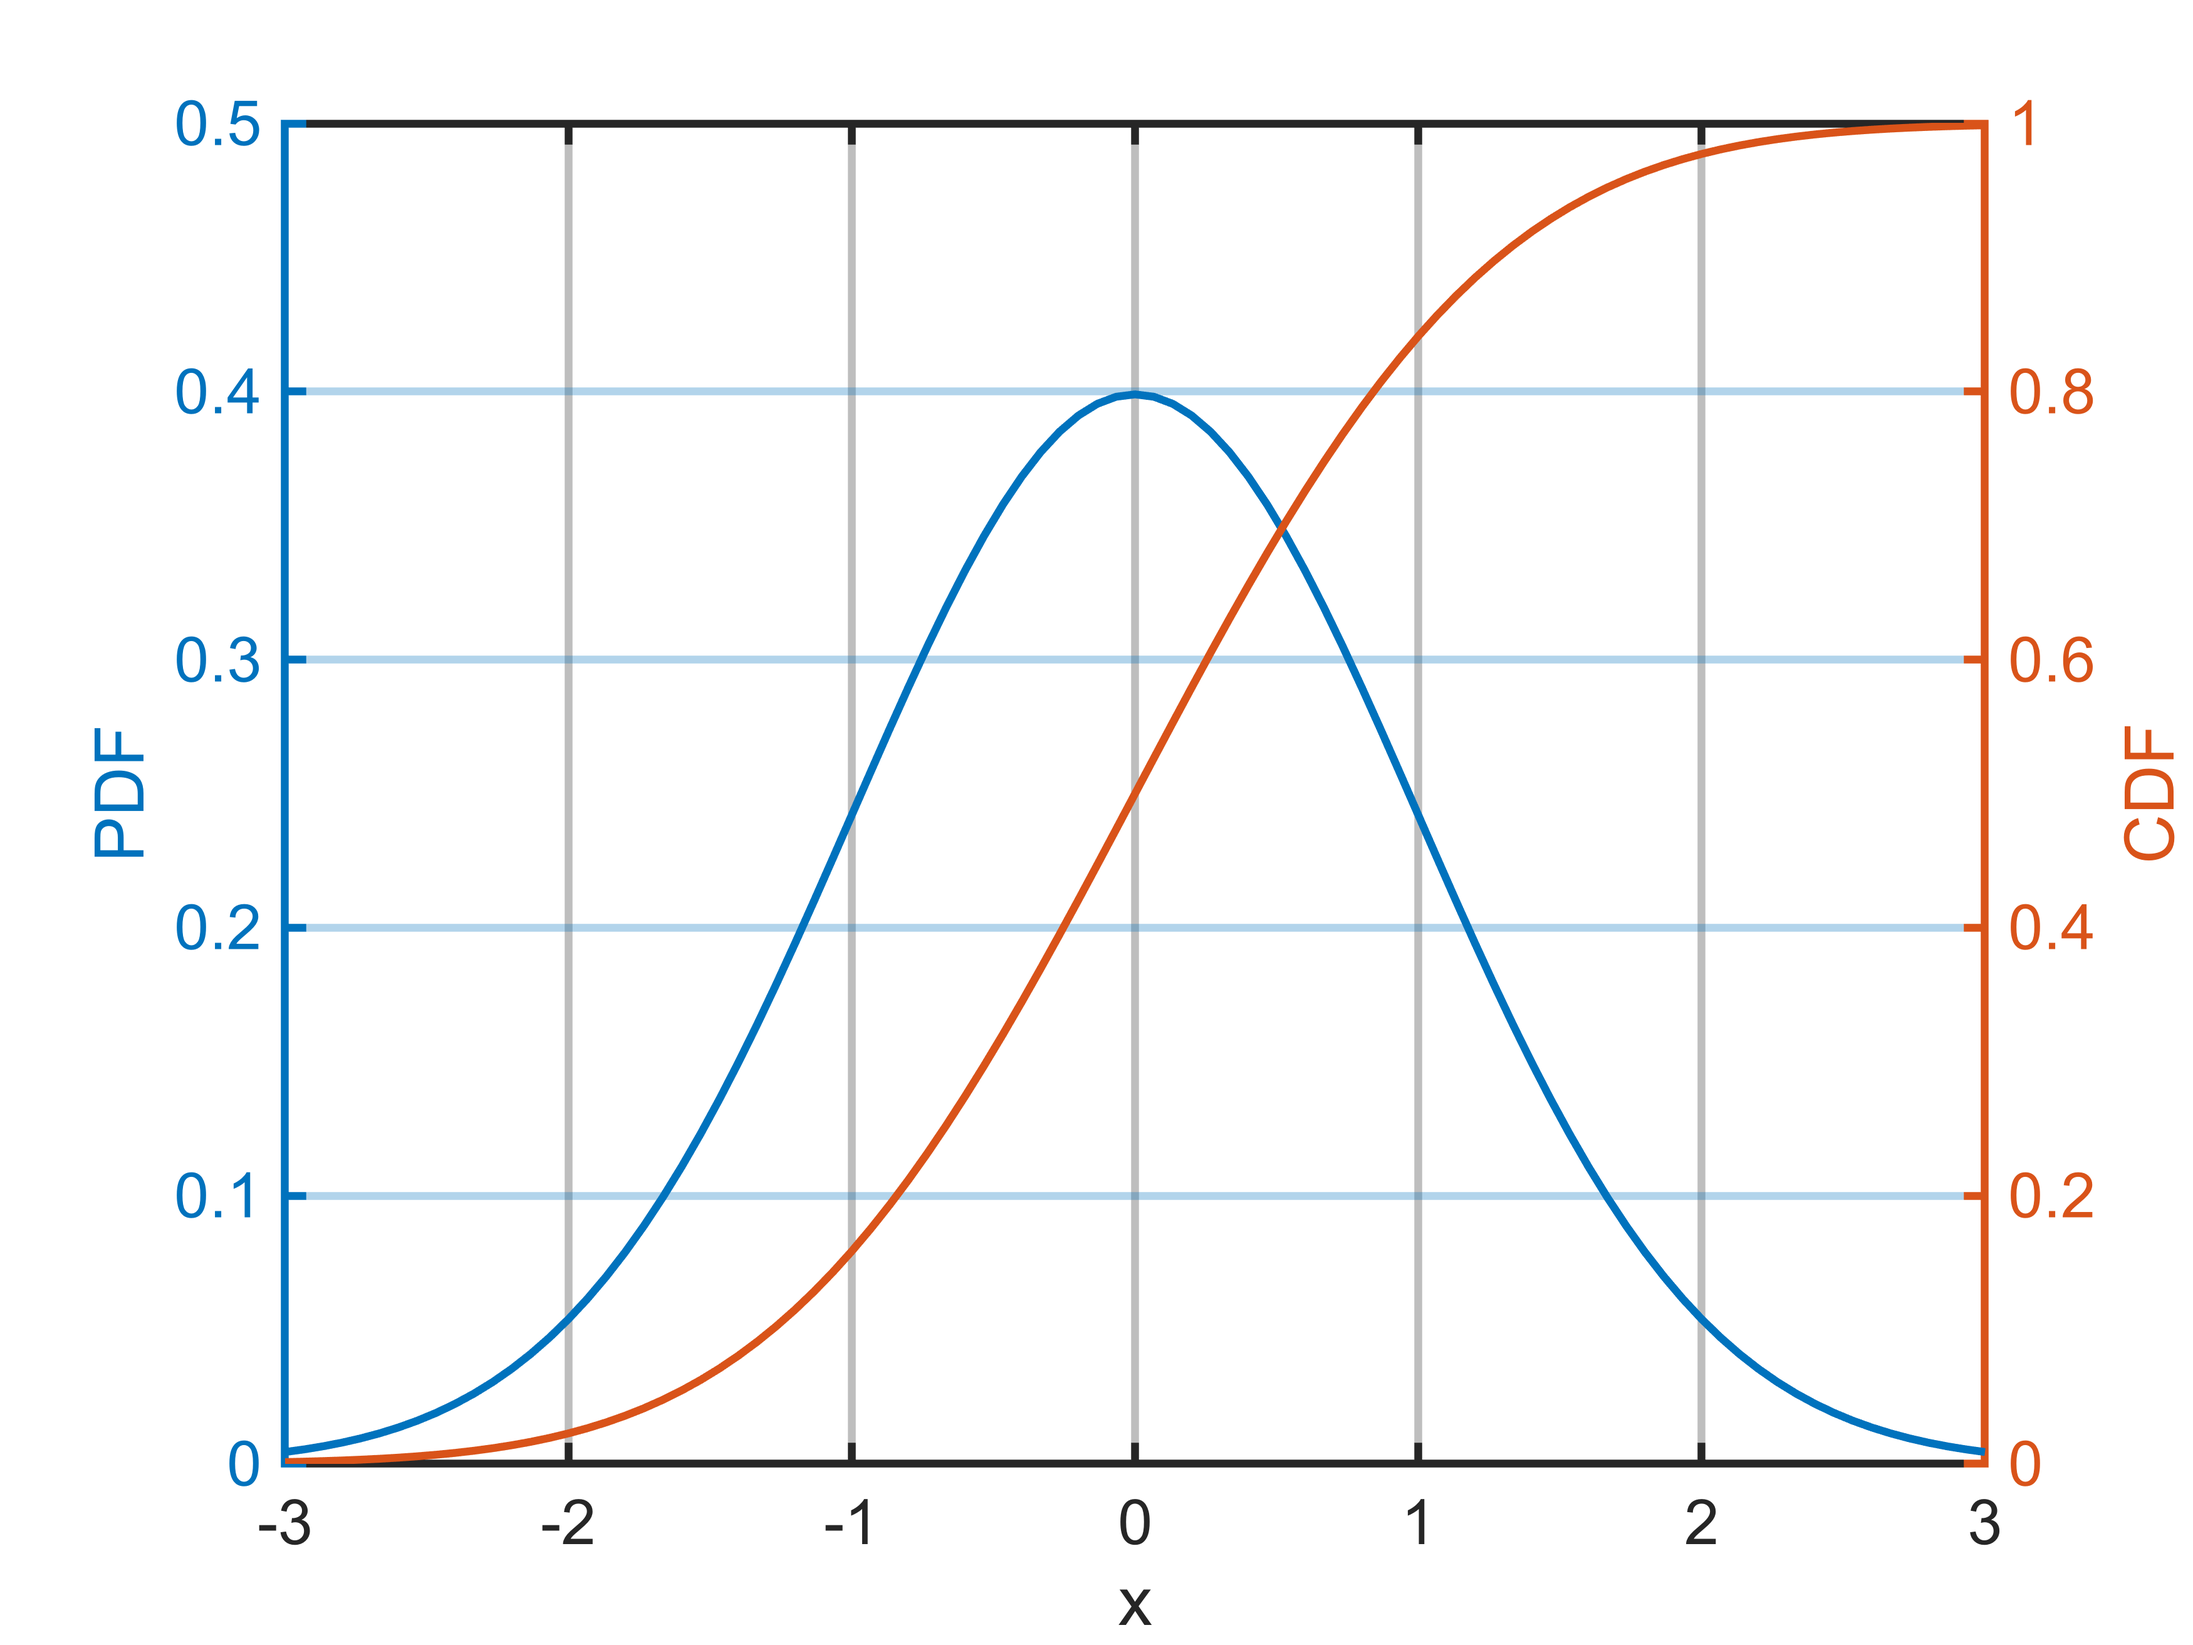
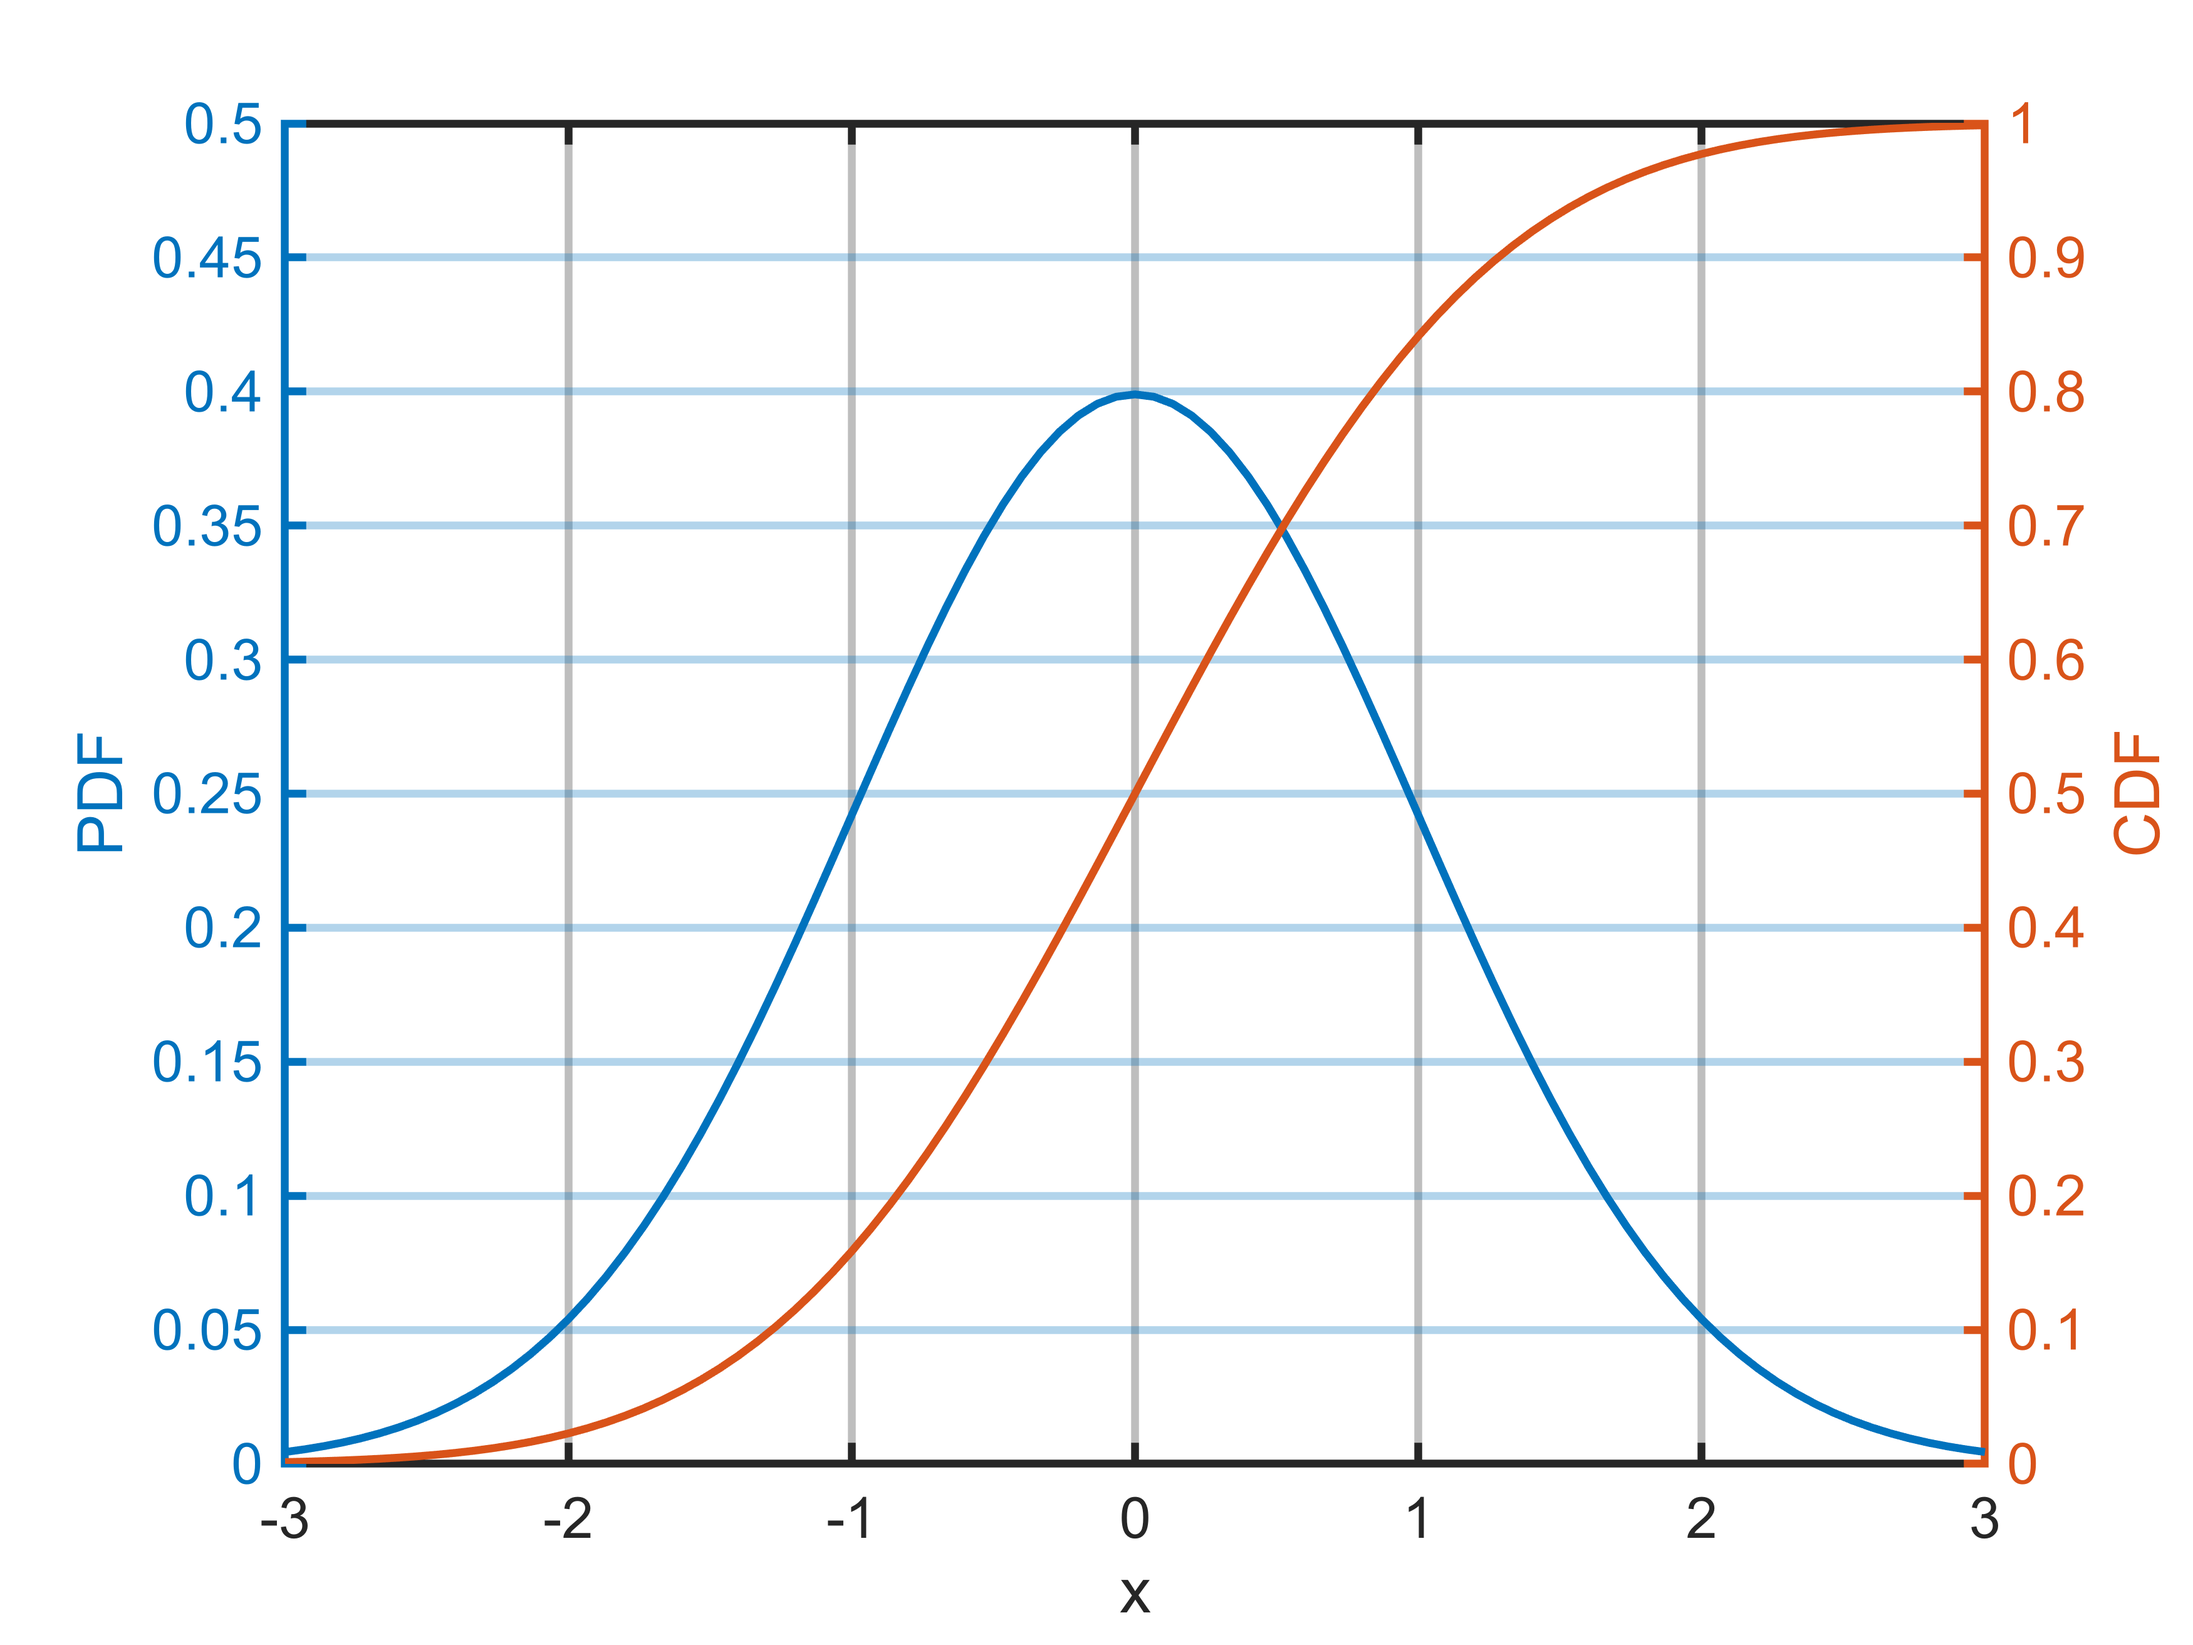
Smooth out dark figure text.  Print out code issues so it shows up in log.

diff --git a/publish_examples.m b/publish_examples.m
@@ -16,7 +16,7 @@ lightOpts = {
     "defaultAxesYGrid", "on", ...
     "defaultAxesBox", "on", ...
     "defaultTextColor", [0.15, 0.15, 0.15], ...
-    "defaultAxesFontSize", 12, ...
+    "defaultAxesFontSize", 11, ...
     "defaultErrorBarLineWidth", 1.5, ...
     "defaultLineLineWidth", 1.5, ...
     "defaultLineMarkerFaceColor", "w", ...
@@ -35,7 +35,7 @@ darkOpts = {
     "defaultAxesYGrid", "on", ...
     "defaultAxesBox", "on", ...
     "defaultTextColor", [1,1,1].*230/255, ...
-    "defaultAxesFontSize", 12, ...
+    "defaultAxesFontSize", 11, ...
     "defaultErrorBarLineWidth", 1.5, ...
     "defaultLineLineWidth", 1.5, ...
     "defaultLineMarkerFaceColor", [1,1,1].*20/255, ...
@@ -107,6 +107,7 @@ for i = 1:length(exfiles)
         alpha = ones(size(a, [1, 2]));
         idx = all(a == cref | a == cref2, 3);
         alpha(idx) = 0;
+        alpha = smoothdata2(alpha, "gaussian", 5);
         imwrite(a, tempName, Alpha=alpha);
     end
     
@@ -126,7 +127,7 @@ for i = 1:length(exfiles)
         "<picture>\n" + ...
         "  <source media\=""\(prefers-color-scheme: dark\)"" srcset\=""$2\/dark\/$1"">\n " + ...
         "  <source media\=""\(prefers-color-scheme: light\)"" srcset\=""$2\/light\/$1"">\n " + ...
-        "  <img alt\=""$1"" src\=""$2\/light\/$1"">" + ...
+        "  <img alt\=""$1"" src\=""$2\/light\/$1"">\n" + ...
         "<\/picture>");
     writelines(mdtext2, filename);
 end

diff --git a/TEST_UncVal_simple.m b/TEST_UncVal_simple.m
@@ -288,9 +288,6 @@ assert(numEntries(z.srcs) == 2);
 
 %% Test exponentials and logs
 x = UncVal(1.0, 0.1, "x");
-y1 = log(x); %#ok<NASGU>
-y2 = log10(x); %#ok<NASGU>
-y3 = exp(x); %#ok<NASGU>
 
 y4 = exp(log(x));
 assertClose(y4.val, 1.0);

diff --git a/workflow_ci.m b/workflow_ci.m
@@ -92,6 +92,7 @@ if numErrors > 0
 else
     out.CI_ERRORS_COLOR = "#77AC30"; % green
 end
+disp(issues);
 
 %writestruct(out, "test-results/summary.json", PrettyPrint=false);
 

diff --git a/example1_overview.md b/example1_overview.md
@@ -80,7 +80,8 @@ ha.YAxis(1).Limits = [0, 0.5]; % make tick marks align.
 <picture>
   <source media="(prefers-color-scheme: dark)" srcset="example1_overview_media/dark/figure_0.png">
    <source media="(prefers-color-scheme: light)" srcset="example1_overview_media/light/figure_0.png">
-   <img alt="figure_0.png" src="example1_overview_media/light/figure_0.png"></picture>
+   <img alt="figure_0.png" src="example1_overview_media/light/figure_0.png">
+</picture>
 # Propagate Uncertainty
 
 Uncertainty is propagated through calculations.  Sources of uncertainty are tracked individually.
@@ -118,7 +119,8 @@ title(string(z2), FontWeight="normal");
 <picture>
   <source media="(prefers-color-scheme: dark)" srcset="example1_overview_media/dark/figure_1.png">
    <source media="(prefers-color-scheme: light)" srcset="example1_overview_media/light/figure_1.png">
-   <img alt="figure_1.png" src="example1_overview_media/light/figure_1.png"></picture>
+   <img alt="figure_1.png" src="example1_overview_media/light/figure_1.png">
+</picture>
 # Correlated Variables
 
 Correlation between variables is handled appropriately.  The trigonometric identitiy below is always 1.0, even if the inputs are uncertain.

diff --git a/example2_arrays.md b/example2_arrays.md
@@ -111,7 +111,8 @@ errorbar(x, y);
 <picture>
   <source media="(prefers-color-scheme: dark)" srcset="example2_arrays_media/dark/figure_0.png">
    <source media="(prefers-color-scheme: light)" srcset="example2_arrays_media/light/figure_0.png">
-   <img alt="figure_0.png" src="example2_arrays_media/light/figure_0.png"></picture>
+   <img alt="figure_0.png" src="example2_arrays_media/light/figure_0.png">
+</picture>
 # Functions that Reduce an Array
 
 Many functions that normally reduce an array, do not reduce arrays of `UncVal` objects.  These functions can be thought of as acting on the distribution in the `UncVal` object, and not on the array.  For example, the `mean` and `std` functions, return the mean and standard deviation of the underlying distributions.  The array returned is the same size as the `UncVal` array.
